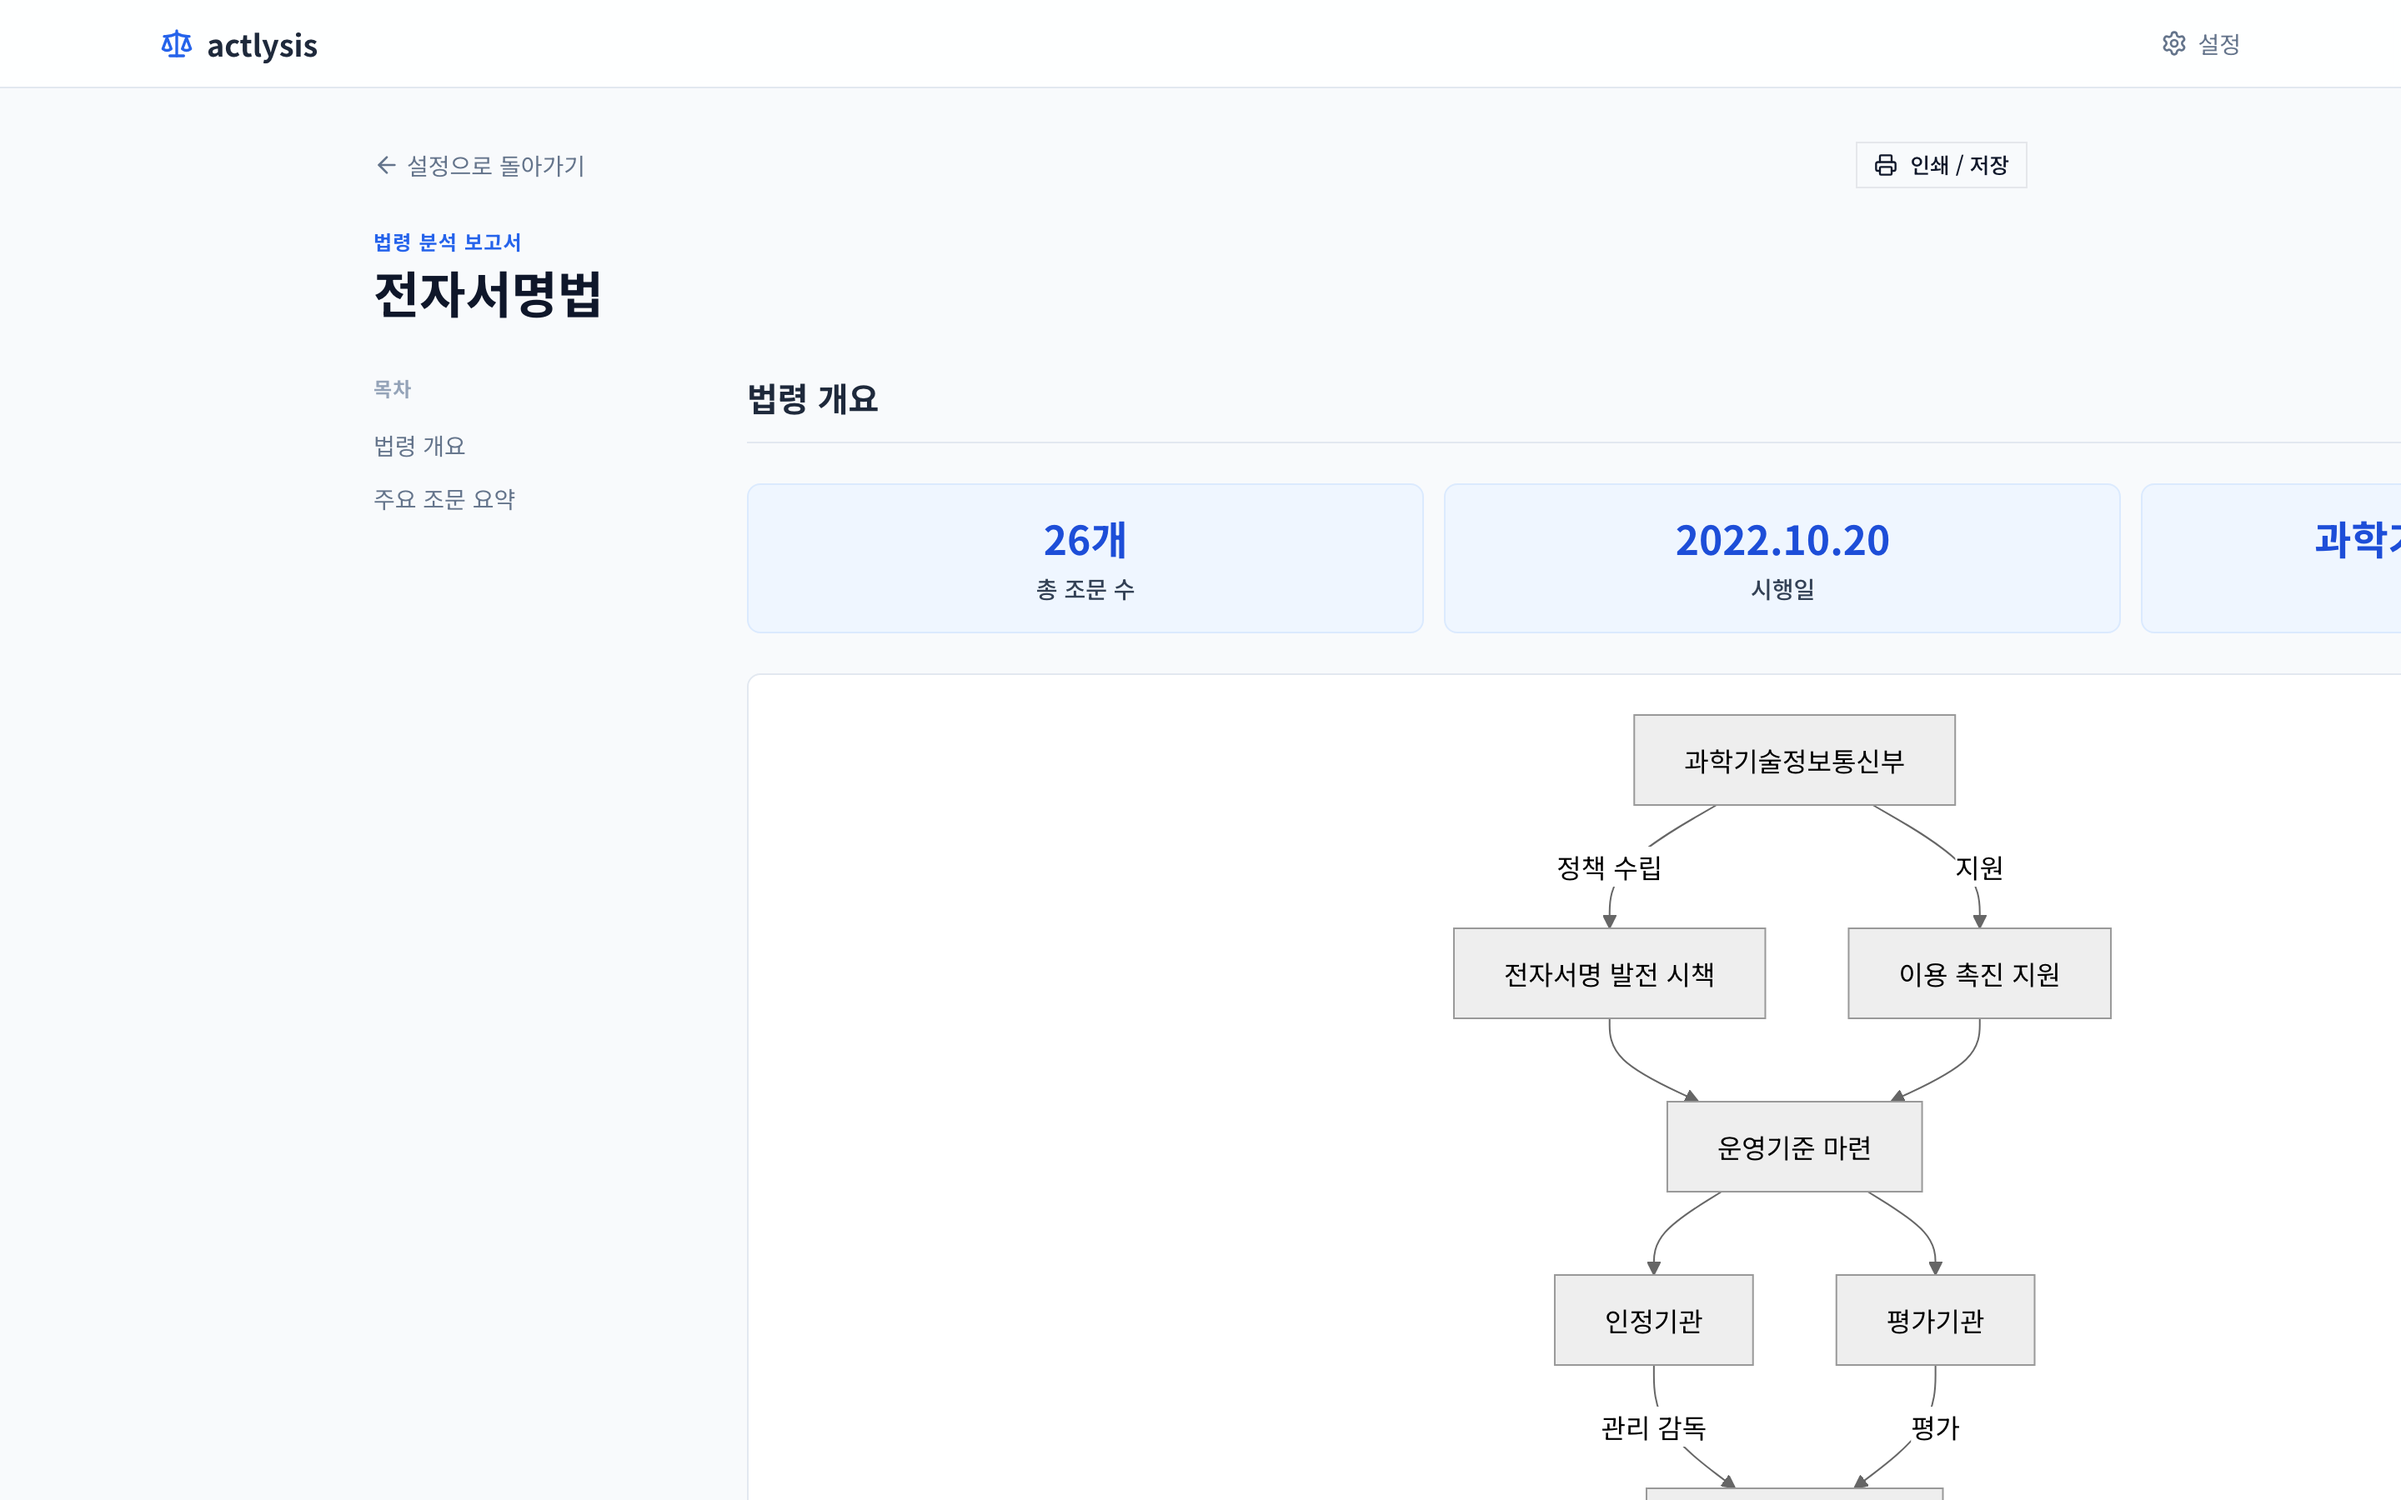
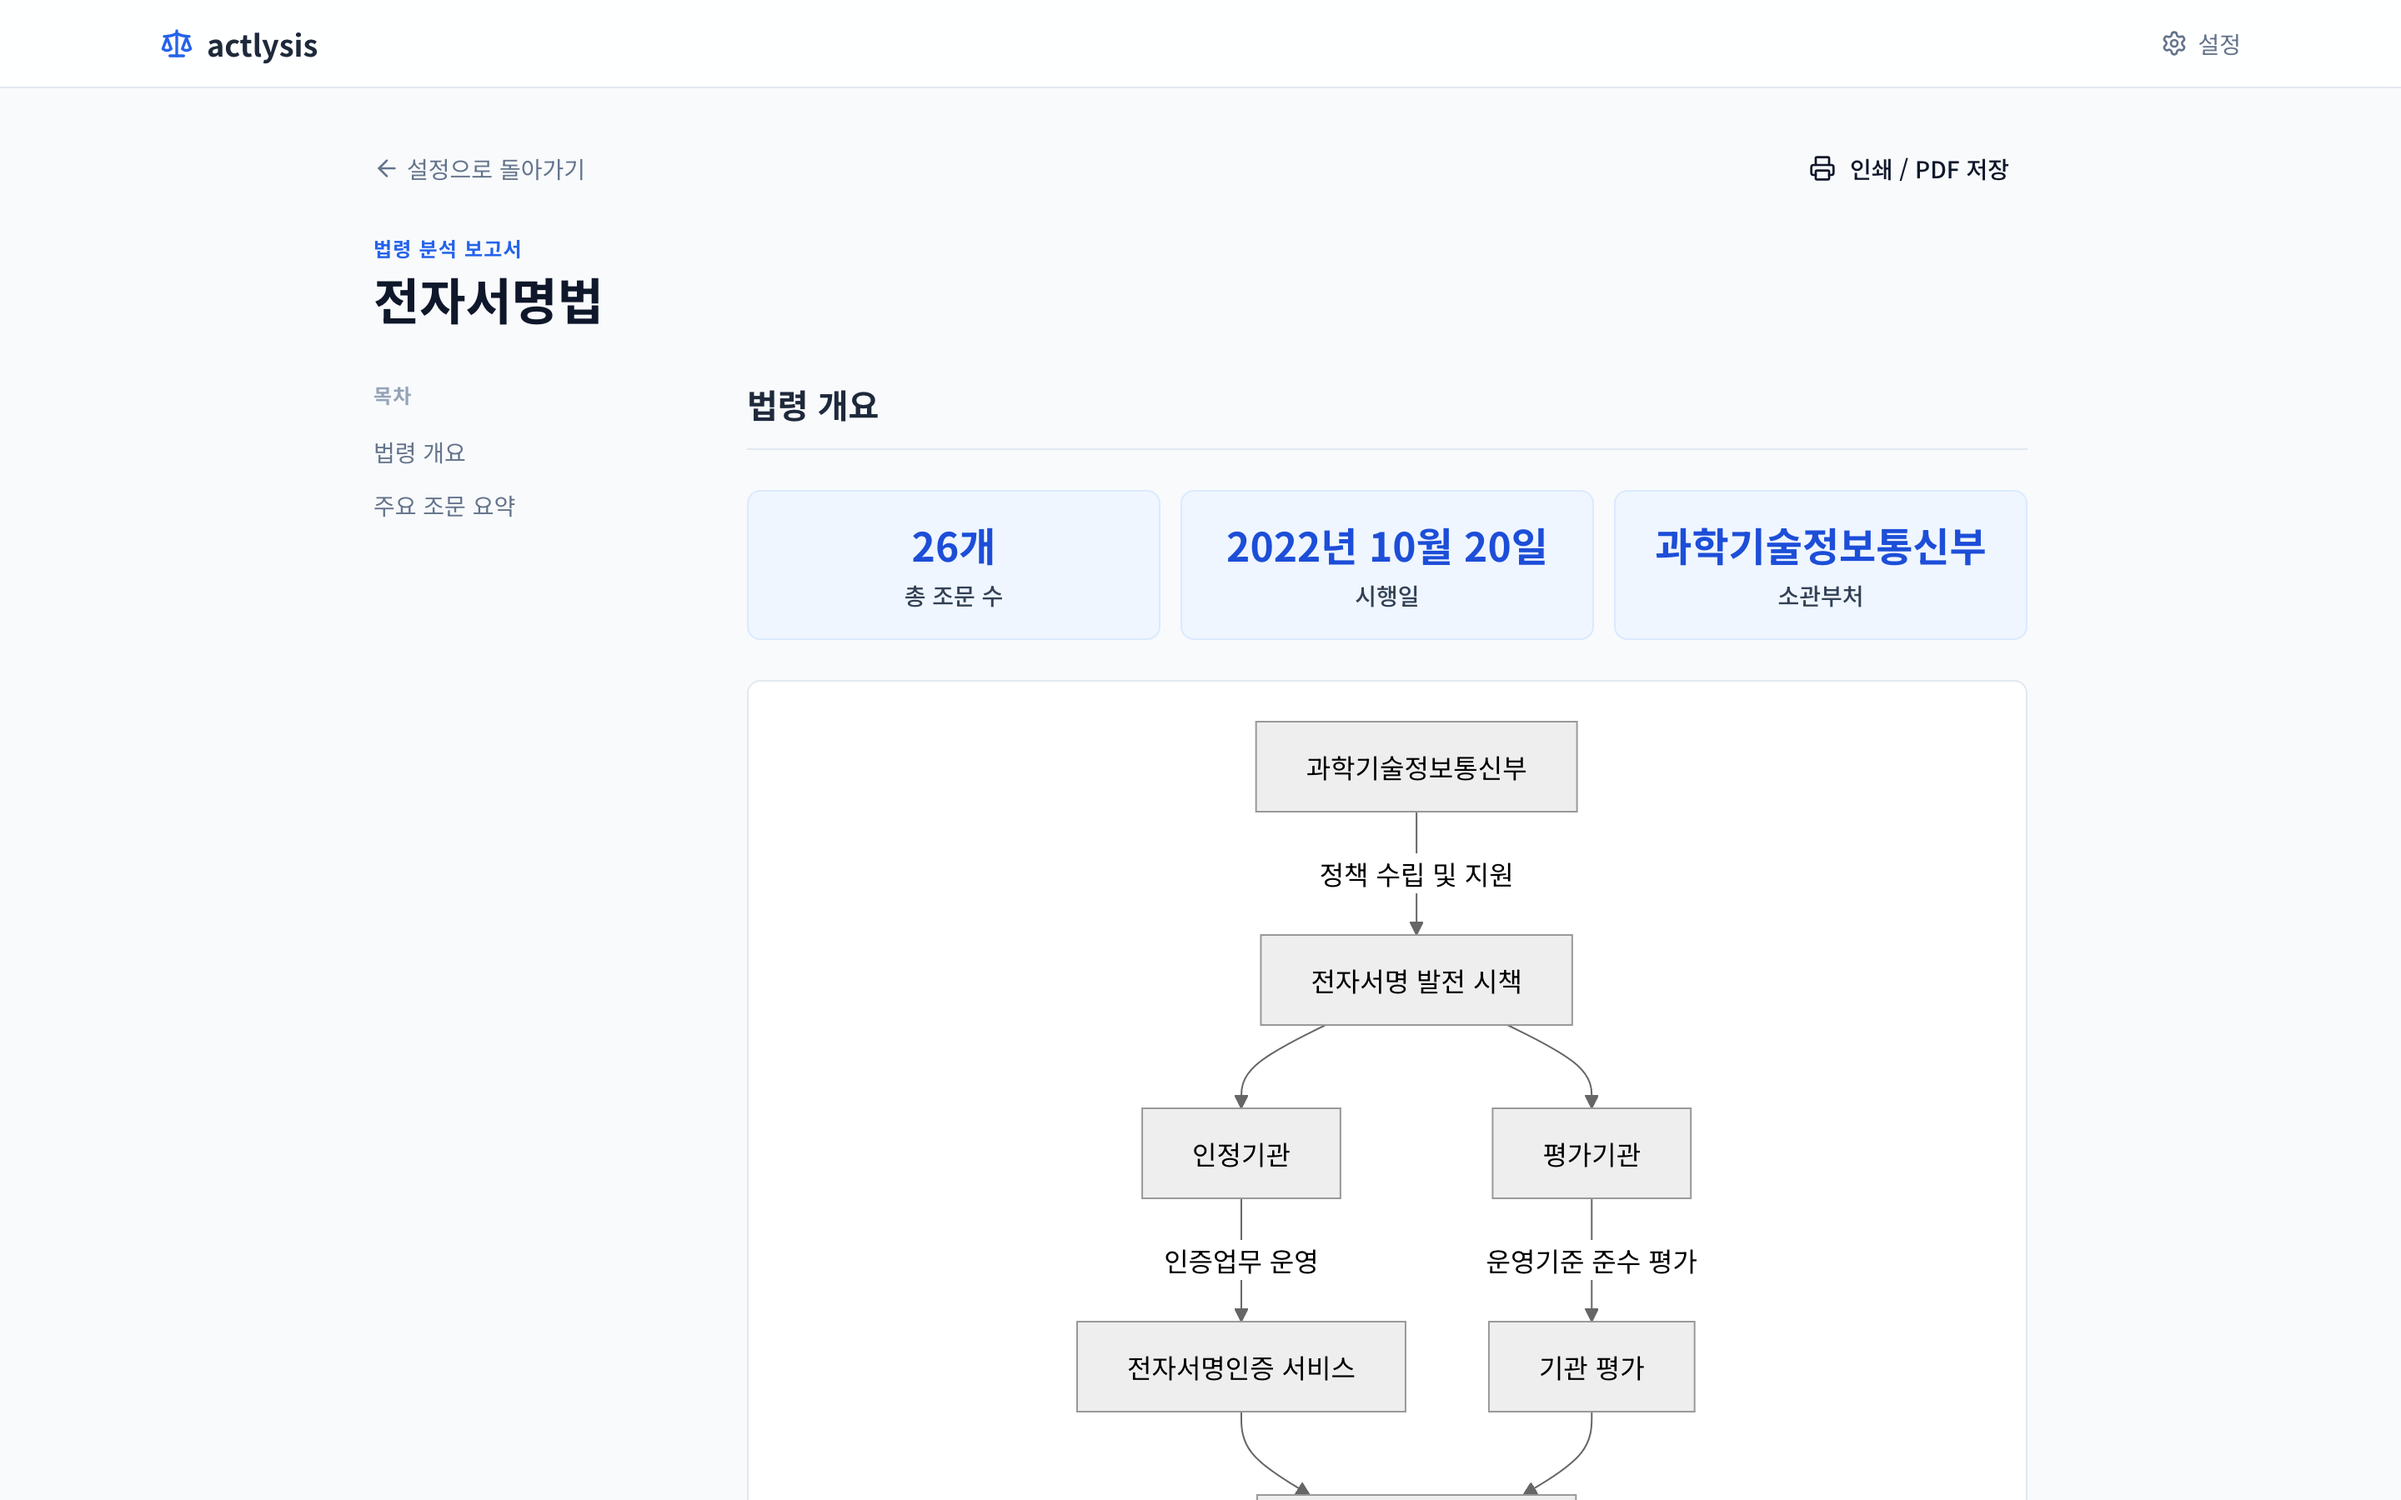
feat: add print button and AI disclaimer to report page
- 인쇄/PDF 저장 버튼을 분석 완료 시 상단에 표시 (파란 채움 버튼으로 강조)
- AI 면책 조항 블록 추가 (보고서 하단):
    · Actlysis by PLANiT Institute 명시
    · AI 생성 한계 경고 (법적 효력 없음, 전문가 확인 권장)
    · 분석 법령명, 사용 모델, 생성 일시 메타데이터
- 인쇄 시 상단에 Actlysis by PLANiT Institute 로고 텍스트 출력
- README 스크린샷 업데이트 (통계 카드 3개 + 인쇄 버튼 포함)

diff --git a/src/app/report/[lawId]/page.tsx b/src/app/report/[lawId]/page.tsx
@@ -4,7 +4,7 @@ import { useEffect, useRef, useState } from "react";
 import { useRouter } from "next/navigation";
 import { Header } from "@/components/layout/Header";
 import { SectionRenderer } from "@/components/report/SectionRenderer";
-import { Printer, ArrowLeft, Loader2 } from "lucide-react";
+import { Printer, ArrowLeft, Loader2, TriangleAlert, Scale } from "lucide-react";
 import { Button } from "@/components/ui/button";
 import Link from "next/link";
 import type { AnalyzeRequest, AnalysisSection, SSEEvent } from "@/lib/types";
@@ -21,6 +21,8 @@ export default function ReportPage({ params }: ReportPageProps) {
   const [done, setDone] = useState(false);
   const [error, setError] = useState("");
   const [lawName, setLawName] = useState("");
+  const [modelLabel, setModelLabel] = useState("");
+  const [generatedAt, setGeneratedAt] = useState("");
   const sectionRefs = useRef<Record<string, HTMLElement | null>>({});
   const streamStarted = useRef(false);
 
@@ -36,6 +38,7 @@ export default function ReportPage({ params }: ReportPageProps) {
     catch { router.replace(`/analyze/${lawId}`); return; }
 
     setLawName(req.lawName);
+    setModelLabel(`${req.providerConfig.name} · ${req.model}`);
 
     async function startStream() {
       const res = await fetch("/api/analyze", {
@@ -87,6 +90,10 @@ export default function ReportPage({ params }: ReportPageProps) {
             } else if (event.type === "done") {
               setDone(true);
               setPendingSections([]);
+              setGeneratedAt(new Date().toLocaleString("ko-KR", {
+                year: "numeric", month: "long", day: "numeric",
+                hour: "2-digit", minute: "2-digit",
+              }));
               sessionStorage.removeItem("analyzeRequest");
             } else if (event.type === "error") {
               setError(event.message ?? "오류가 발생했습니다.");
@@ -118,15 +125,21 @@ export default function ReportPage({ params }: ReportPageProps) {
             설정으로 돌아가기
           </Link>
           {done && (
-            <Button variant="outline" size="sm" onClick={() => window.print()}>
-              <Printer className="h-4 w-4 mr-1" />
-              인쇄 / 저장
+            <Button onClick={() => window.print()} className="gap-2">
+              <Printer className="h-4 w-4" />
+              인쇄 / PDF 저장
             </Button>
           )}
         </div>
 
         {/* Report Header */}
         <div className="mb-8">
+          {/* Print-only branding line */}
+          <div className="hidden print:flex items-center gap-1.5 mb-4 text-slate-400 text-xs">
+            <Scale className="h-3.5 w-3.5 text-blue-600" />
+            <span className="text-blue-600 font-semibold">Actlysis</span>
+            <span>by PLANiT Institute · law.go.kr</span>
+          </div>
           <p className="text-xs text-blue-600 font-semibold uppercase tracking-wider mb-1">
             법령 분석 보고서
           </p>
@@ -226,6 +239,30 @@ export default function ReportPage({ params }: ReportPageProps) {
                     </div>
                   </div>
                 ))}
+
+              {/* AI Disclaimer — shown when all sections are done */}
+              {done && (
+                <div className="mt-4 rounded-xl border border-amber-200 bg-amber-50 px-5 py-4 space-y-3 print:border-slate-300 print:bg-white">
+                  <div className="flex items-center gap-2 text-amber-700">
+                    <TriangleAlert className="h-4 w-4 shrink-0" />
+                    <span className="font-semibold text-sm">AI 생성 보고서 — 법적 효력 없음</span>
+                  </div>
+                  <p className="text-xs text-amber-800 leading-relaxed print:text-slate-600">
+                    이 보고서는 <strong>Actlysis</strong>(PLANiT Institute)가 AI 모델을 이용해 자동 생성한 참고 자료입니다.
+                    AI의 특성상 내용이 부정확하거나 누락·왜곡될 수 있으며, 법적 판단이나 의사결정의 근거로 단독 사용할 수 없습니다.
+                    중요한 법적 사안은 반드시 자격을 갖춘 법률 전문가에게 확인하세요.
+                    법령 원문은 <a href="https://www.law.go.kr" target="_blank" rel="noreferrer" className="underline">law.go.kr</a>에서 확인할 수 있습니다.
+                  </p>
+                  <div className="flex flex-wrap gap-x-6 gap-y-1 text-[11px] text-amber-700 print:text-slate-500 pt-1 border-t border-amber-200 print:border-slate-200">
+                    <span className="flex items-center gap-1">
+                      <Scale className="h-3 w-3" />
+                      분석 대상: {lawName}
+                    </span>
+                    {modelLabel && <span>모델: {modelLabel}</span>}
+                    {generatedAt && <span>생성 일시: {generatedAt}</span>}
+                  </div>
+                </div>
+              )}
             </div>
           </div>
         )}
